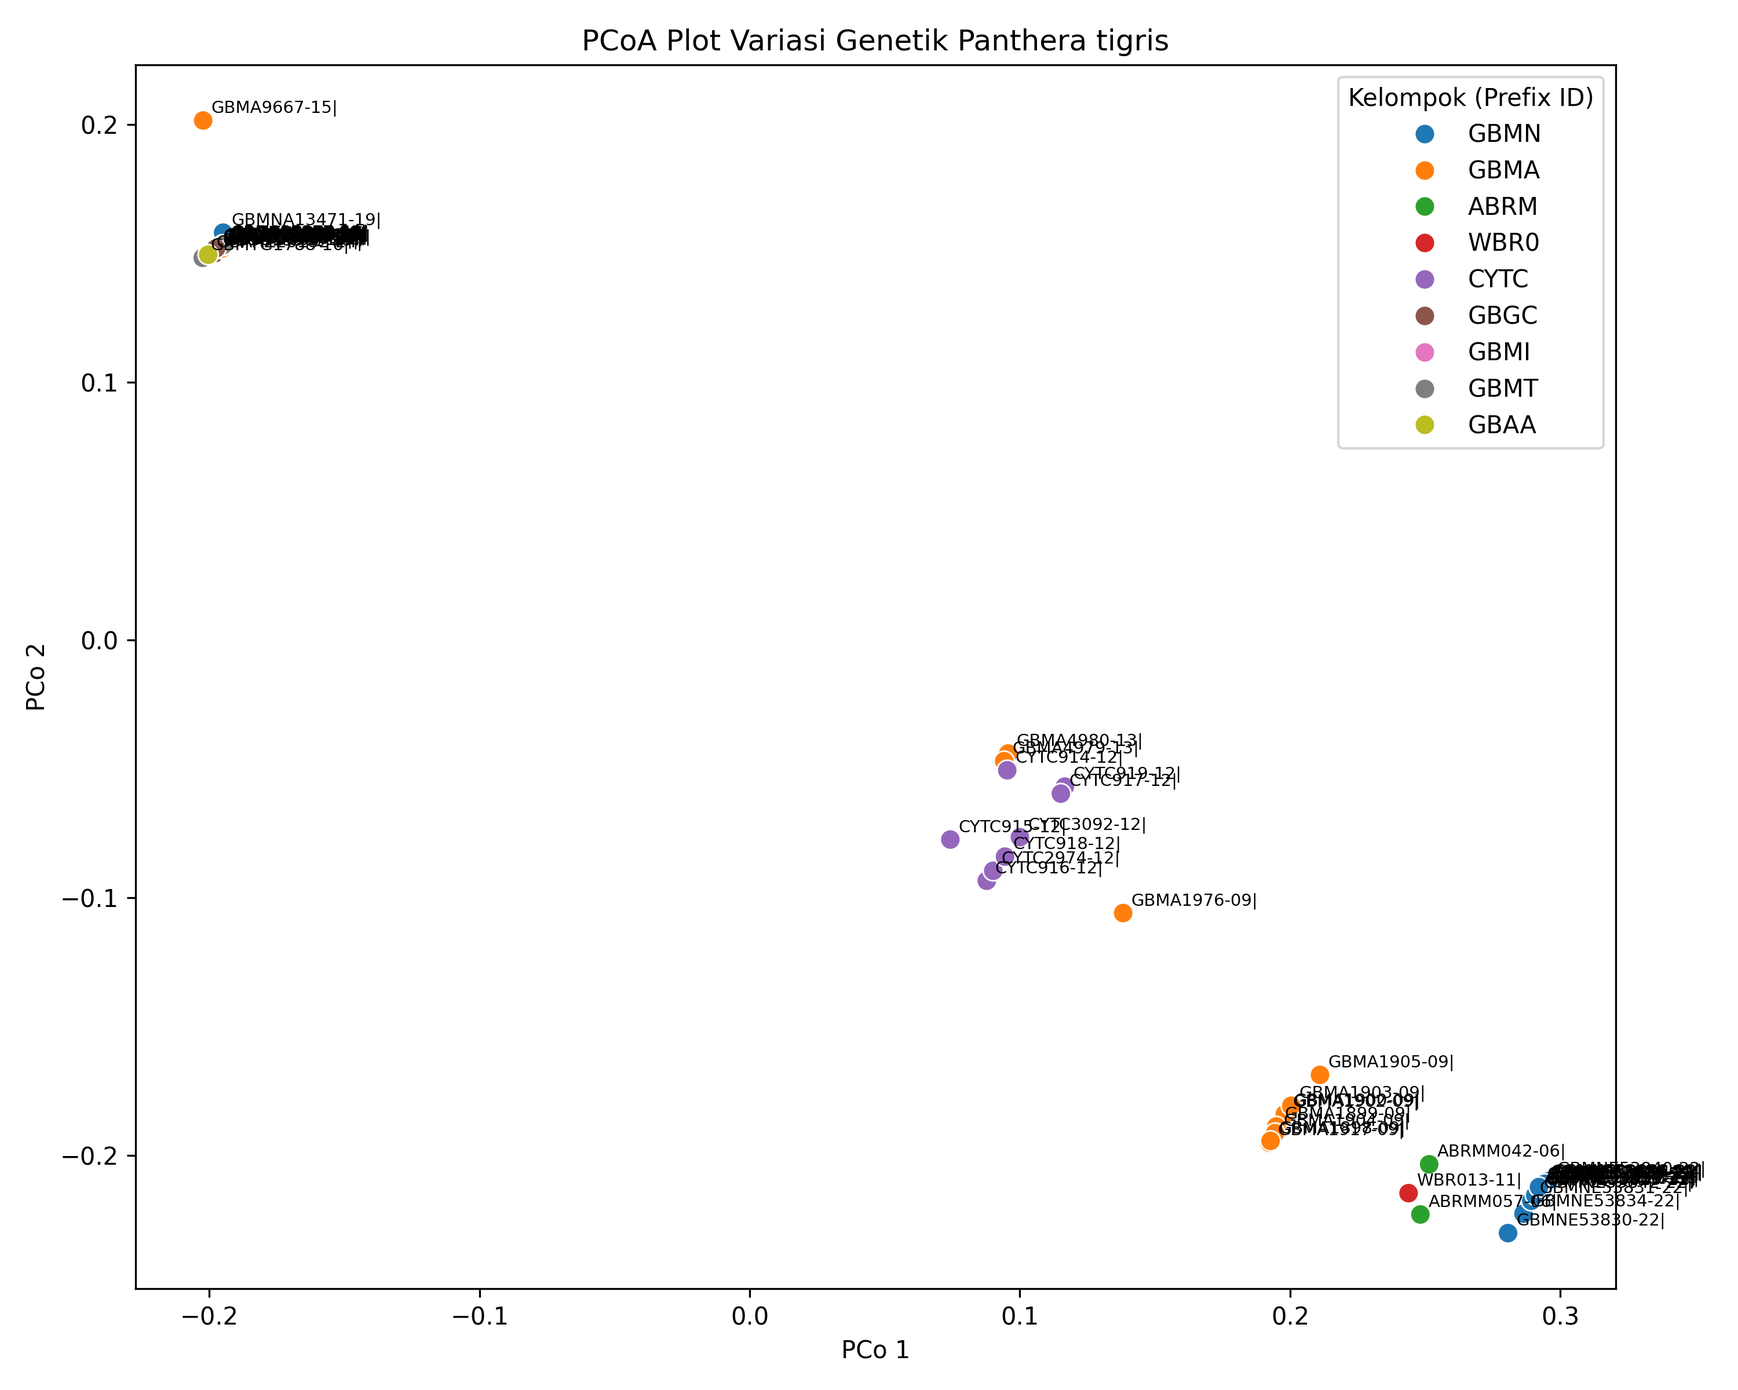
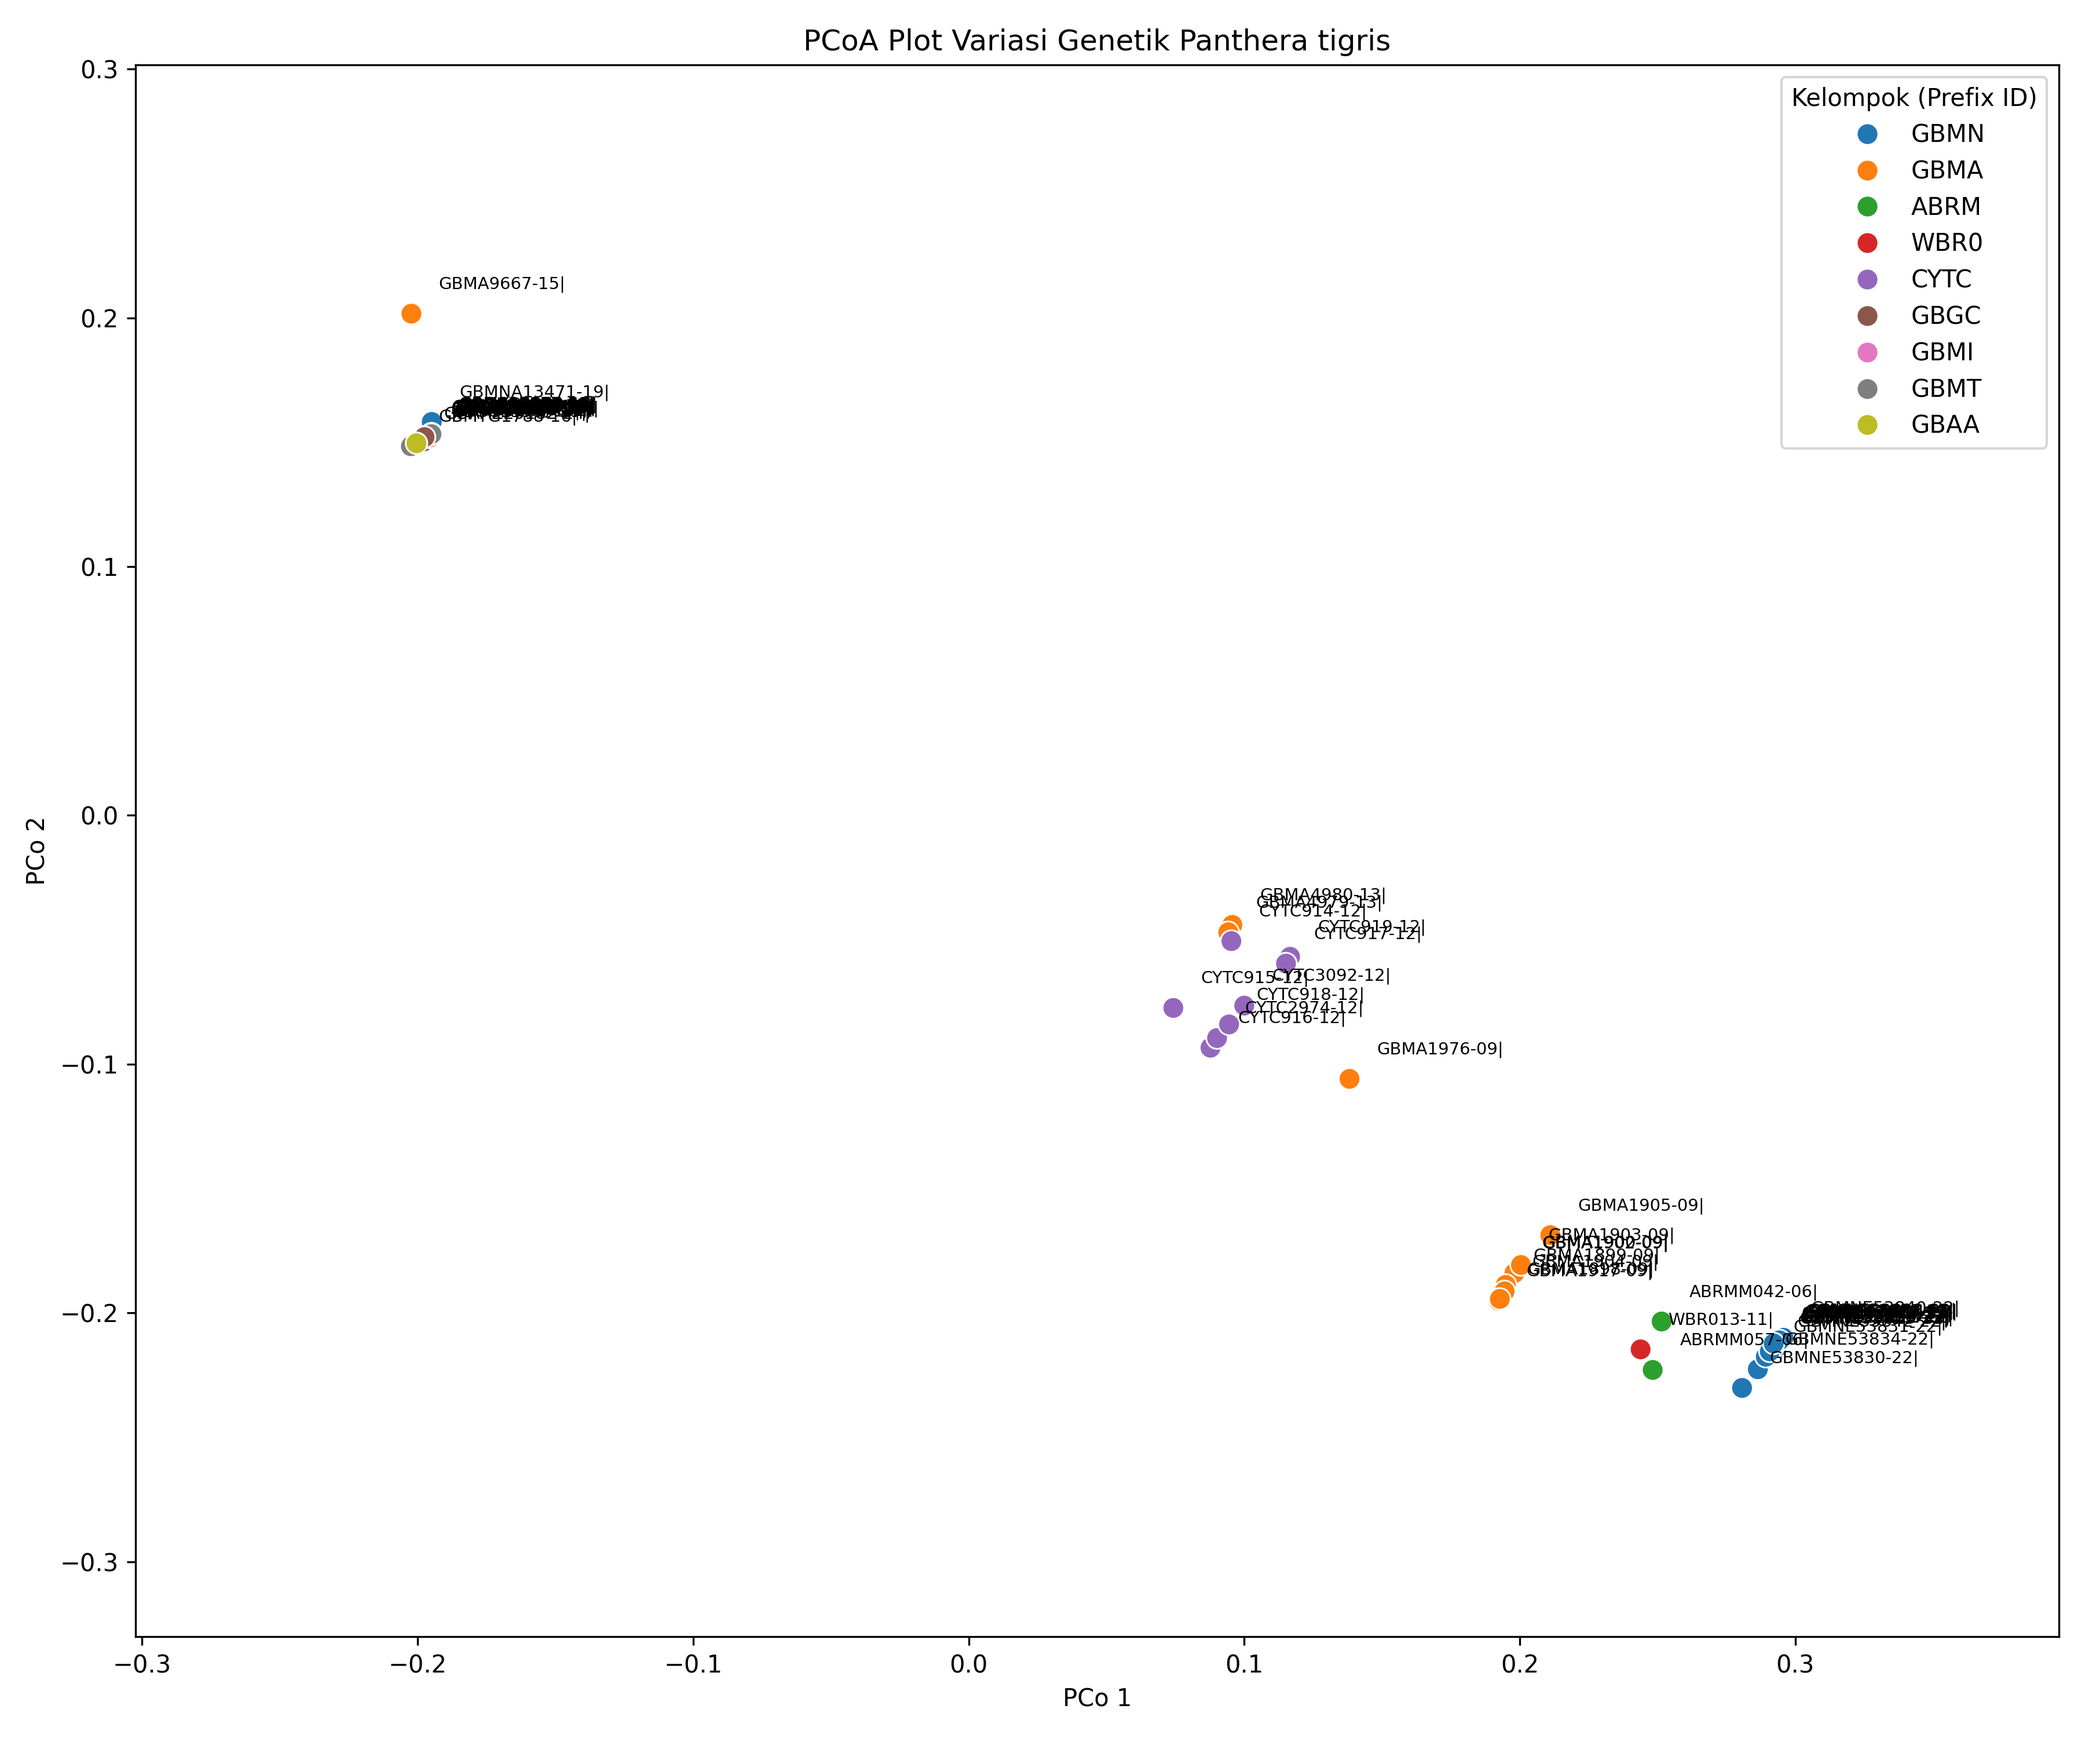
visualization

diff --git a/scripts/visualization.py b/scripts/visualization.py
@@ -23,17 +23,23 @@ def plot_pcoa(distance_matrix, labels, save_path='pcoa_plot.png'):
     pcoa = MDS(n_components=2, dissimilarity='precomputed', random_state=42)
     coords = pcoa.fit_transform(distance_matrix)
 
-    # Buat dataframe plotting
     df = pd.DataFrame(coords, columns=["PCo1", "PCo2"])
     df["SampleID"] = labels
     df["Group"] = [extract_prefix(label) for label in labels]
 
-    plt.figure(figsize=(10, 8))
-    sns.scatterplot(data=df, x="PCo1", y="PCo2", hue="Group", s=70, palette="tab10")
+    plt.figure(figsize=(12, 10))
+    sns.scatterplot(data=df, x="PCo1", y="PCo2", hue="Group", s=80, palette="tab10")
 
-    # Tambahkan label titik
+    # Tentukan batas axis dengan margin ekstra supaya titik tidak terlalu rapat di tepi
+    margin = 0.1
+    x_min, x_max = df["PCo1"].min(), df["PCo1"].max()
+    y_min, y_max = df["PCo2"].min(), df["PCo2"].max()
+    plt.xlim(x_min - margin, x_max + margin)
+    plt.ylim(y_min - margin, y_max + margin)
+
+    # Geser label titik lebih jauh (0.01 atau coba-coba sampai pas)
     for i in range(len(df)):
-        plt.text(df["PCo1"][i]+0.003, df["PCo2"][i]+0.003, df["SampleID"][i], fontsize=7)
+        plt.text(df["PCo1"][i] + 0.01, df["PCo2"][i] + 0.01, df["SampleID"][i], fontsize=7)
 
     plt.title("PCoA Plot Variasi Genetik Panthera tigris")
     plt.xlabel("PCo 1")
